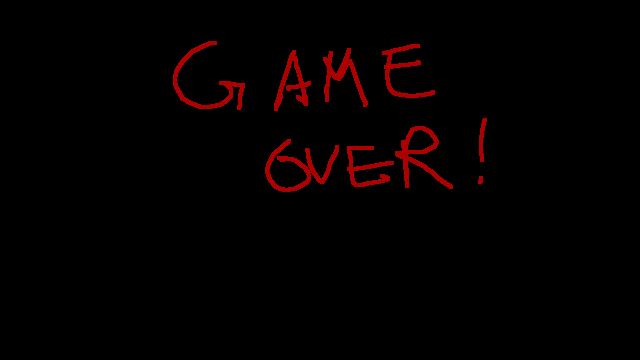
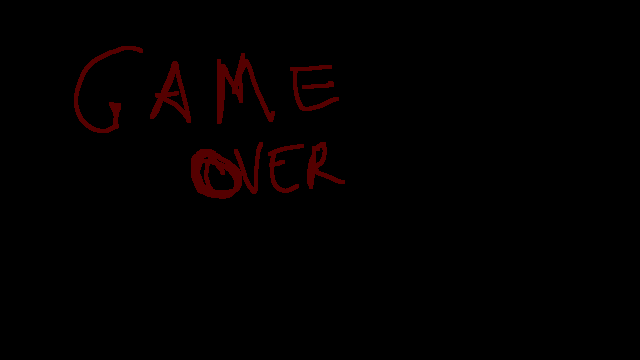
Added the Endscreen and QuitButton

diff --git a/rpg-game/Game.cpp b/rpg-game/Game.cpp
@@ -19,6 +19,7 @@
 Game::Game() :
 	show_map(0),
 	game_start(0),
+	game_end(0),
 	window(sf::VideoMode(gbl::SCREEN::RESIZE* gbl::SCREEN::WIDTH, gbl::SCREEN::RESIZE* gbl::SCREEN::HEIGHT), "Raycasting", sf::Style::Default),
 	fov_visualization(sf::TriangleFan, 1 + gbl::SCREEN::WIDTH),
 	enemy(sprite_manager)
@@ -37,6 +38,12 @@ Game::Game() :
 
 	startButton.setSize(sf::Vector2f(85, 125));
 	startButton.setPosition(545, 20);
+
+	quitButton.setSize(sf::Vector2f(110, 60));
+	quitButton.setPosition(180, 235);
+
+	restartButton.setSize(sf::Vector2f(110, 60));
+	restartButton.setPosition(350, 235);
 }
 
 bool Game::is_open() const
@@ -57,21 +64,41 @@ void Game::calculate_fov_visualization()
 	}
 }
 
-	void Game::draw()
-	{
-		if (game_start == 0) {
-			sf::Vector2<short> position(0, 0); 
-			sf::Color color = sf::Color::White;  // (no tint)
-			auto& spriteData = sprite_manager.get_sprite_data("StartScreen");
-			sf::Rect<unsigned short> textureBox = spriteData.texture_box;
-			sprite_manager.draw_sprite(0, "StartScreen", position, window, false, false, 1.0f, 1.0f, color, textureBox);
+void Game::draw()
+{
+	if (game_start == 0) {
+		sf::Vector2<short> position(0, 0); 
+		sf::Color color = sf::Color::White;  // (no tint)
+		auto& spriteData = sprite_manager.get_sprite_data("StartScreen");
+		sf::Rect<unsigned short> textureBox = spriteData.texture_box;
+		sprite_manager.draw_sprite(0, "StartScreen", position, window, false, false, 1.0f, 1.0f, color, textureBox);
 
-			// Draw the Start button
-			auto& buttonSpriteData = sprite_manager.get_sprite_data("StartButton");
-			sf::Vector2<short> buttonPosition(545, 20);
-			sf::Rect<unsigned short> buttonTextureBox = buttonSpriteData.texture_box;
-			sprite_manager.draw_sprite(0, "StartButton", buttonPosition, window, false, false, 1.0f, 1.0f, color, buttonTextureBox);
-		}
+		// Start button
+		auto& startButtonSpriteData = sprite_manager.get_sprite_data("StartButton");
+		sf::Vector2<short> startButtonPosition(545, 20);
+		sf::Rect<unsigned short> startButtonTextureBox = startButtonSpriteData.texture_box;
+		sprite_manager.draw_sprite(0, "StartButton", startButtonPosition, window, false, false, 1.0f, 1.0f, color, startButtonTextureBox);
+	}
+	else if (game_end == 1)
+	{
+		sf::Vector2<short> position(0, 0);
+		sf::Color color = sf::Color::White;  // (no tint)
+		auto& spriteData = sprite_manager.get_sprite_data("EndScreen");
+		sf::Rect<unsigned short> textureBox = spriteData.texture_box;
+		sprite_manager.draw_sprite(0, "EndScreen", position, window, false, false, 1.0f, 1.0f, color, textureBox);
+
+		// Quit button
+		auto& quitButtonSpriteData = sprite_manager.get_sprite_data("QuitButton");
+		sf::Vector2<short> quitButtonPosition(180, 235);
+		sf::Rect<unsigned short> quitButtonTextureBox = quitButtonSpriteData.texture_box;
+		sprite_manager.draw_sprite(0, "QuitButton", quitButtonPosition, window, false, false, 1.0f, 1.0f, color, quitButtonTextureBox);
+
+		// Restart(Play) button
+		auto& restartButtonSpriteData = sprite_manager.get_sprite_data("PlayButton");
+		sf::Vector2<short> restartButtonPosition(350, 235);
+		sf::Rect<unsigned short> restartButtonTextureBox = restartButtonSpriteData.texture_box;
+		sprite_manager.draw_sprite(0, "PlayButton", restartButtonPosition, window, false, false, 1.0f, 1.0f, color, restartButtonTextureBox);
+	}
 	else 
 	{
 		if (0 == enemy.get_screamer())
@@ -178,7 +205,6 @@ void Game::calculate_fov_visualization()
 						if (enemy.get_distance() > decorations[decoration_index].get_distance())
 						{
 							enemy_is_drawn = 1;
-
 							enemy.draw(pitch, window);
 						}
 					}
@@ -193,7 +219,6 @@ void Game::calculate_fov_visualization()
 					if (enemy.get_distance() > stripe.get_distance())
 					{
 						enemy_is_drawn = 1;
-
 						enemy.draw(pitch, window);
 					}
 				}
@@ -208,7 +233,6 @@ void Game::calculate_fov_visualization()
 					if (enemy.get_distance() > decorations[a].get_distance())
 					{
 						enemy_is_drawn = 1;
-
 						enemy.draw(pitch, window);
 					}
 				}
@@ -228,7 +252,9 @@ void Game::calculate_fov_visualization()
 		}
 		else
 		{
-			short screamer_x = 0.5f * (gbl::SCREEN::WIDTH - gbl::ENEMY::SCREAMER_RESIZE * sprite_manager.get_sprite_data("STEVEN_SCREAMER").texture_box.width);
+			game_end = 1;
+			window.setMouseCursorVisible(1);
+			/*short screamer_x = 0.5f * (gbl::SCREEN::WIDTH - gbl::ENEMY::SCREAMER_RESIZE * sprite_manager.get_sprite_data("STEVEN_SCREAMER").texture_box.width);
 			short screamer_y = gbl::ENEMY::SCREAMER_Y;
 
 			screamer_x += rand() % (1 + 2 * gbl::ENEMY::SCREAMER_MAX_OFFSET) - gbl::ENEMY::SCREAMER_MAX_OFFSET;
@@ -236,9 +262,9 @@ void Game::calculate_fov_visualization()
 
 			window.clear();
 
-			sprite_manager.draw_sprite(0, "STEVEN_SCREAMER", sf::Vector2<short>(screamer_x, screamer_y), window, 0, 0, gbl::ENEMY::SCREAMER_RESIZE, gbl::ENEMY::SCREAMER_RESIZE);
+			sprite_manager.draw_sprite(0, "STEVEN_SCREAMER", sf::Vector2<short>(screamer_x, screamer_y), window, 0, 0, gbl::ENEMY::SCREAMER_RESIZE, gbl::ENEMY::SCREAMER_RESIZE);*/
 
-		}
+		}	
 	}
 	window.display();
 }
@@ -302,12 +328,23 @@ void Game::handle_events()
 			}
 			case sf::Event::MouseButtonPressed:
 			{
-				if (event.mouseButton.button == sf::Mouse::Left)
+				if ((event.mouseButton.button == sf::Mouse::Left) && (game_end==0))	// Before the game ends
 				{
 					if (startButton.getGlobalBounds().contains(window.mapPixelToCoords(sf::Mouse::getPosition(window))))
 					{
 						game_start = 1;
 						window.setMouseCursorVisible(0);
+					}
+				}
+				if ((event.mouseButton.button == sf::Mouse::Left) && (game_end == 1))	// After the game ends
+				{
+					if (quitButton.getGlobalBounds().contains(window.mapPixelToCoords(sf::Mouse::getPosition(window))))
+					{
+						window.close();
+					}
+					if (restartButton.getGlobalBounds().contains(window.mapPixelToCoords(sf::Mouse::getPosition(window))))
+					{
+						// Game restart
 					}
 				}
 				break;

diff --git a/rpg-game/Headers/Game.h b/rpg-game/Headers/Game.h
@@ -11,6 +11,7 @@ class Game
 private:
 	bool show_map;
 	bool game_start;
+	bool game_end;
 
 	std::array<Stripe, gbl::SCREEN::WIDTH> stripes;
 
@@ -22,8 +23,9 @@ private:
 
 	sf::VertexArray fov_visualization;
 
-	sf::RectangleShape rectangle;
 	sf::RectangleShape startButton;
+	sf::RectangleShape quitButton;
+	sf::RectangleShape restartButton;
 
 	sf::Texture startScreenTexture;
 	sf::Sprite startScreenSprite;
